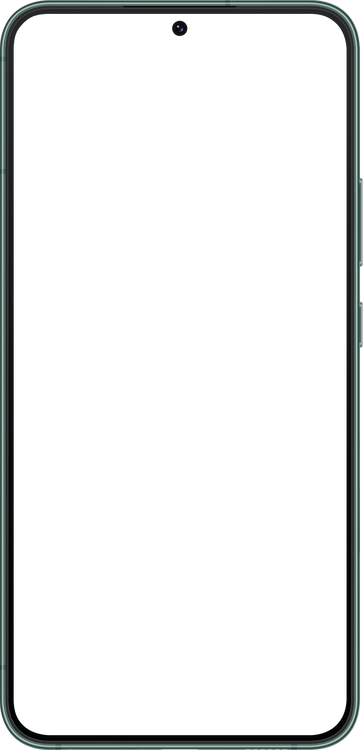
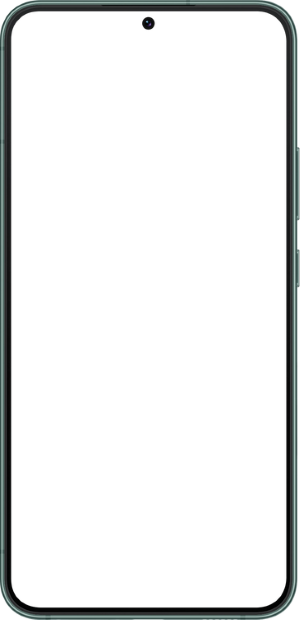
Atualizações de estilo

diff --git a/estilos/style.css b/estilos/style.css
@@ -5,48 +5,56 @@
     padding: 0;
 }
 
+html, body {
+    width: 100vw;
+    height: 100vh;
+}
+
 body {
     background: #eeeeee url(../imagens/fundo-madeira.jpg) center no-repeat fixed;
     background-size: cover;
 }
 
-#container-celular {
+main {
+    height: 100vh;
     position: relative;
-    width: 276px;
-    height: 570px;
-    display: block;
-    margin: 35px auto;
-    background: url(../imagens/frame-s22.png) center no-repeat scroll;
-    background-size: contain;
 }
 
-#iframe-celular {
+#container-celular {
     position: absolute;
-    width: 254px;
-    height: 549px;
+    top: 50%;
+    left: 50%;
+    transform: translate(-50%, -50%);
+    width: 290px;
+    height: 600px;
+    background: url(../imagens/frame-s22-p.png) no-repeat;
+}
+
+#tela {
+    position: relative;
     top: 10px;
     left: 10px;
-    background: white url(../imagens/tela-inicio.jpg) center no-repeat scroll;
-    background-size: cover;
+    width: 267px;
+    height: 578px;
     border: 0;
-    border-radius: 24px;
+    border-radius: 28px;
 }
 
 #container-links {
-    width: 50px;
-    height: fit-content;
     position: absolute;
-    top: 35px;
+    top: 20px;
     right: 0;
     margin-right: 20px;
 }
 
 .logo-social {
-    width: 100%;
+    width: 50px;
     margin-bottom: 20px;
-    border-radius: 25px;
+    border-radius: 50%;
+    display: block;
+    box-sizing: border-box;
 }
 
 .logo-social:hover {
-    box-shadow: 0px 0px 20px #252525;
+    border: 3px solid white;
 }

diff --git a/index.html b/index.html
@@ -11,15 +11,24 @@
 <body>
     <main>
         <section id="container-celular">
-            <iframe src="" id="iframe-celular" name="iframe-celular" sandbox="allow-same-origin" referrerpolicy="same-origin">
+            <iframe src="home.html" id="tela" name="tela" sandbox="allow-same-origin" referrerpolicy="same-origin">
                 <p id="erro-iframe">Seu navegador não é compatível com iframes.</p>
             </iframe>
         </section>
 
-        <aside id="container-links">
-            <a href="#" target="iframe-celular" class="link-social"><img src="imagens/logo-home.jpg" alt="Início" class="logo-social"></a>
-            <a href="pags-links/github.html" target="iframe-celular" class="link-social"><img src="imagens/logo-github.jpg" alt="GitHub" class="logo-social"></a>
-        </aside>
+        <section id="container-links">
+            <a href="#" target="tela">
+                <img src="imagens/logo-home.jpg" alt="Início" class="logo-social">
+            </a>
+
+            <a href="#" target="tela">
+                <img src="imagens/logo-github.jpg" alt="GitHub" class="logo-social">
+            </a>
+
+            <a href="#" target="tela">
+                <img src="imagens/logo-youtube.jpg" alt="YouTube" class="logo-social">
+            </a>
+        </section>
     </main>
 </body>
 </html>

diff --git a/home.html b/home.html
@@ -4,22 +4,21 @@
     <meta charset="UTF-8">
     <meta http-equiv="X-UA-Compatible" content="IE=edge">
     <meta name="viewport" content="width=device-width, initial-scale=1.0">
-    <title>GitHub</title>
+    <title>Tela inicial</title>
     <style>
         * {
             margin: 0;
             padding: 0;
         }
 
-        main {
-            width: 237px;
-            height: 990px;
-            background: url(../imagens/tela-github.png) left no-repeat scroll;
+        body {
+            width: 100vw;
+            height: 100vh;
+            background: black url(imagens/tela-inicio.jpg) top center no-repeat;
             background-size: cover;
         }
     </style>
 </head>
 <body>
-    <main></main>
 </body>
 </html>

diff --git a/github.html b/github.html
@@ -1,0 +1,24 @@
+<!DOCTYPE html>
+<html lang="pt-br">
+<head>
+    <meta charset="UTF-8">
+    <meta http-equiv="X-UA-Compatible" content="IE=edge">
+    <meta name="viewport" content="width=device-width, initial-scale=1.0">
+    <title>GitHub</title>
+    <style>
+        * {
+            margin: 0;
+            padding: 0;
+        }
+
+        main {
+            width: 237px;
+            height: 990px;
+            background: url(../imagens/tela-github.png) left no-repeat scroll;
+            background-size: cover;
+        }
+    </style>
+</head>
+<body>
+</body>
+</html>
